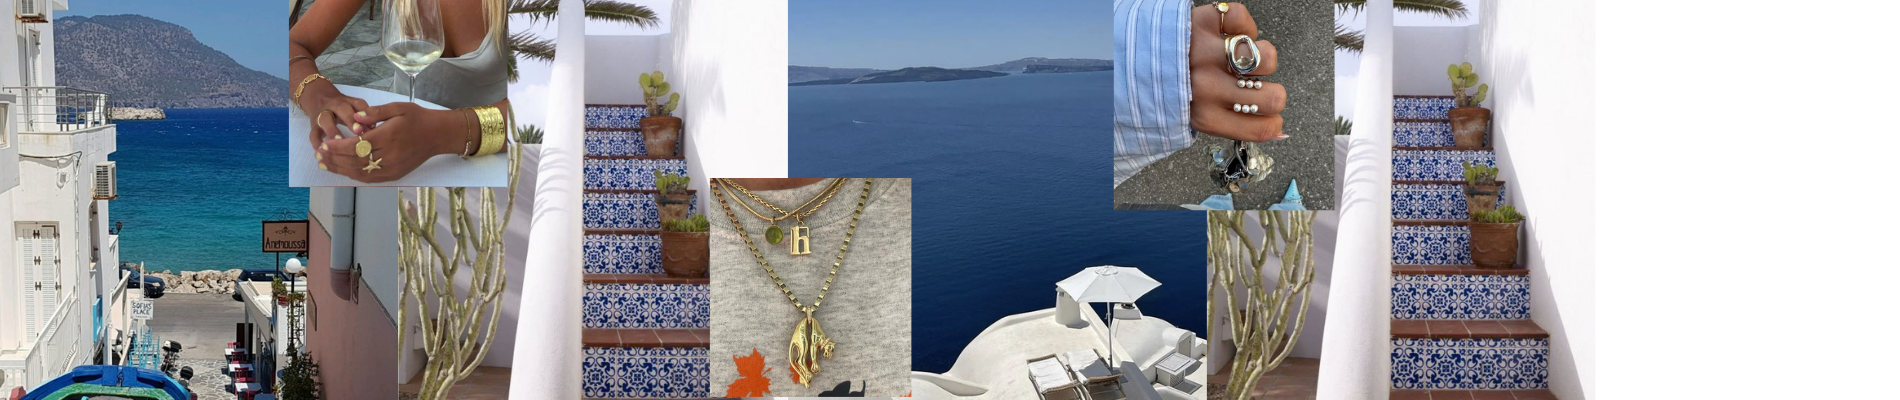
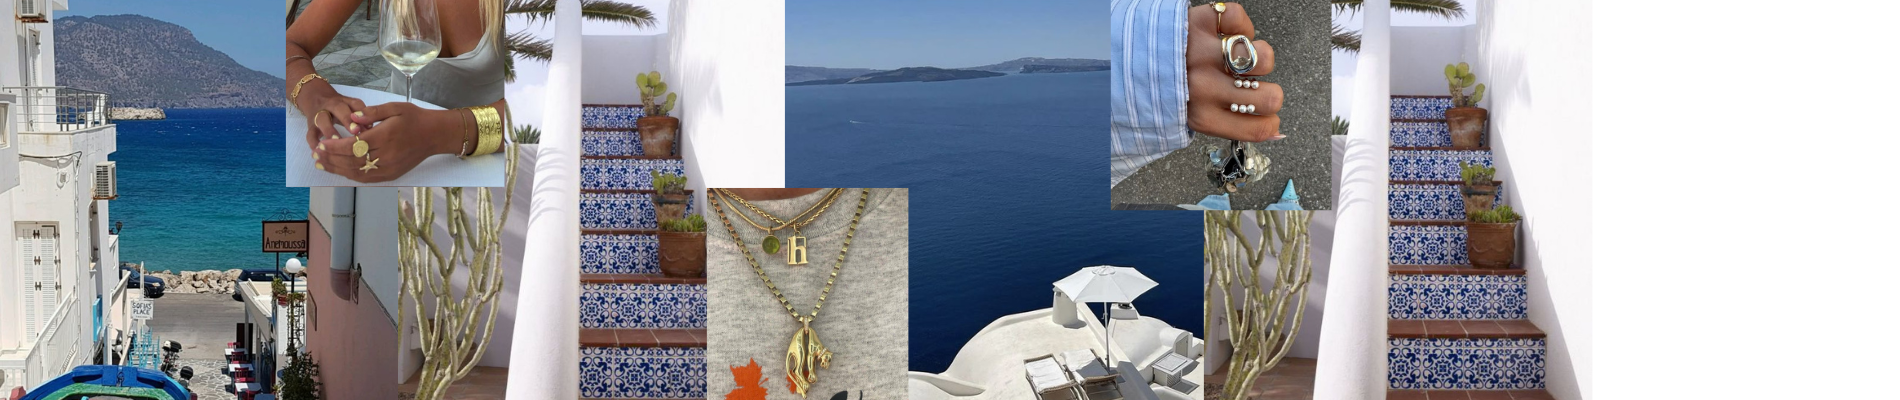
14 commit

Changed region(s): [[0.1242, 0.0, 0.4968, 1.0], [0.5279, 0.0, 0.8384, 1.0], [0.5589, 0.66, 0.59, 0.69]]

diff --git a/pago.js b/pago.js
@@ -1,4 +1,5 @@
 let listaPedidos = [];
+let pedido = JSON.parse(localStorage.getItem('carrito')) || [];
 
 const botonEnviar = document.getElementById ('botonEnviar').addEventListener ('click', function (event){
     event.preventDefault();
@@ -10,6 +11,16 @@ const botonEnviar = document.getElementById ('botonEnviar').addEventListener ('c
     if (valido) {
         enviarOrden (nombre, telefono, medio);
         pagoRealizado();
+        document.getElementById('botonCerrarPago').addEventListener('click', function (){ // CUANDO CIERRE EL TOAST QUIERO REDIRIGIR EL USUARIO A LA PAGINA CON SUS DATOS
+                document.getElementById('nombre').value = '';
+                document.getElementById('telefono').value = '';
+                document.getElementById('medio').value = '';
+
+                localStorage.removeItem('carrito');
+                document.getElementById('listaCarrito').innerHTML = '';
+                mostrarCarrito();
+                window.location.href = "index.html";
+        })
     }else{
         alert ('Chequea bien todos los campos! ')
     }
@@ -35,8 +46,9 @@ function validarEntrada (nom, tel, medio){
 }
 
 // HAGO UNA LISTA CON LOS PEDIDOS 
+
 function enviarOrden(nombre, telefono, medio){
-    let orden = {nombre: nombre, telefono:telefono, medio:medio};
+    let orden = {nombre: nombre, telefono:telefono, medio:medio, carrito:pedido};
     listaPedidos.push (orden);
     console.log (listaPedidos);
 }

diff --git a/usuarioIngresado.css b/usuarioIngresado.css
@@ -129,6 +129,7 @@
 
 #carritoOffcanvas{
     background-color: rgb(255, 255, 255);
+    z-index: 10000000;
 }
 
 .botonDisminuir, .botonAumentar{
@@ -188,34 +189,6 @@
 }
 
 
-/* PORTADA DE LA PÁGINA WEB*/
-#portada {
-    overflow: hidden;
-    height: 100%;
-}
-
-@media (max-width:640px){
-    #portadaCelu {
-        display: block;
-        width: 300%;
-        margin-left: -15%;
-    }
-    #portadaCompu {
-        display: none;
-    }
-
-}
-
-
-@media (min-width:641px){
-    #portadaCelu {
-        display: none;
-    }
-    #portadaCompu {
-        display: block;
-        width: 100%;
-    }
-}
 /*USUARIO*/
 #contenedorUsuario {
     display:flex;
@@ -224,6 +197,7 @@
     background-color: rgba(244, 244, 244, 0.918);
     align-items:flex-start;
     padding: 15px; 
+    margin-top:0px;
 }
 
 #texto {
@@ -233,7 +207,7 @@
 
 #imagen {
     width: 40%;
-    margin-top: 10px;
+    margin-top: 0px;
     display: flex;
     justify-content: center;
     margin-left: 0;

diff --git a/carrito.js b/carrito.js
@@ -41,13 +41,13 @@ function agregarAlCarrito(indice) {
     } else { 
         carrito.push({ id: producto.id, nombre: producto.nombre, precio: producto.precio, cantidad: 1});
     }
-
     localStorage.setItem('carrito', JSON.stringify(carrito));
     const item = producto.nombre;
     mostrarMensaje(item);
 }
 
 function mostrarCarrito() {
+    carrito = JSON.parse(localStorage.getItem('carrito')) || [];
     const contenedor = document.getElementById('listaCarrito');
     contenedor.innerHTML = ''; 
 
@@ -109,6 +109,7 @@ function mostrarCarrito() {
         const usuarioIngresado = localStorage.getItem("usuarioActual");
         if (usuarioIngresado){
             window.location.href = "pago.html";
+
         }else{
             alert ('Por favor, inicia sesión para pagar!')
             window.location.href = "usuario.html"; 

diff --git a/pago.html b/pago.html
@@ -88,7 +88,7 @@
     <div id="pagoHecho" class="toast" role="alert" aria-live="assertive" aria-atomic="true">
         <div class="toast-header">
             <strong class="me-auto">Gracias por tu compra!</strong>
-            <button type="button" class="btn-close" data-bs-dismiss="toast" aria-label="Close"></button>
+            <button type="button" class="btn-close" data-bs-dismiss="toast" aria-label="Close" id="botonCerrarPago"></button>
         </div>
         <div class="toast-body">
             Tu orden de compra se realizó con éxito! Pronto te estaremos enviando tu pedido

diff --git a/usuarioIngresado.html b/usuarioIngresado.html
@@ -59,19 +59,10 @@
                 </ul>
             </div>
         </div>
-    </div>
-
-    <!-- PORTADA -->
-    <div id="portada">
-        <img src="img/portada_miUsuario.png" alt="" id='portadaCompu'>
-        <img src="img/portada_miUsuarioCelu.png" alt="" id="portadaCelu">
-    </div>
-    <br><br><br><br><br>
-    
+    </div>    
     <!-- SOBRE EL USUARIO -->
     <div id="contenedorUsuario">
         <div id='texto'>
-            <br><br><br>
             <h5 id="saludo"></h5>
             <br><br>
             <p id="datos">Estos son tus datos: </p>

diff --git a/crearCuenta.css b/crearCuenta.css
@@ -129,6 +129,7 @@
 
 #carritoOffcanvas{
     background-color: rgb(255, 255, 255);
+    z-index: 10000000;
 }
 
 .botonDisminuir, .botonAumentar{

diff --git a/nosotros.css b/nosotros.css
@@ -128,6 +128,7 @@
 
 #carritoOffcanvas{
     background-color: rgb(255, 255, 255);
+    z-index: 10000000;
 }
 
 .botonDisminuir, .botonAumentar{

diff --git a/pago.css b/pago.css
@@ -124,6 +124,7 @@
 
 #carritoOffcanvas{
     background-color: rgb(255, 255, 255);
+    z-index: 10000000;
 }
 
 .botonDisminuir, .botonAumentar{

diff --git a/productos.css b/productos.css
@@ -131,6 +131,7 @@
 
 #carritoOffcanvas{
     background-color: rgb(255, 255, 255);
+    z-index: 10000000;
 }
 
 .botonDisminuir, .botonAumentar{

diff --git a/style.css b/style.css
@@ -130,6 +130,7 @@
 
 #carritoOffcanvas{
     background-color: rgb(255, 255, 255);
+    z-index: 10000000;
 }
 
 .botonDisminuir, .botonAumentar{

diff --git a/usuario.css b/usuario.css
@@ -130,6 +130,7 @@
 
 #carritoOffcanvas{
     background-color: rgb(255, 255, 255);
+    z-index: 10000000;
 }
 
 .botonDisminuir, .botonAumentar{

diff --git a/contacto.css b/contacto.css
@@ -130,6 +130,7 @@
 
 #carritoOffcanvas{
     background-color: rgb(255, 255, 255);
+    z-index: 10000000;
 }
 
 #total{
